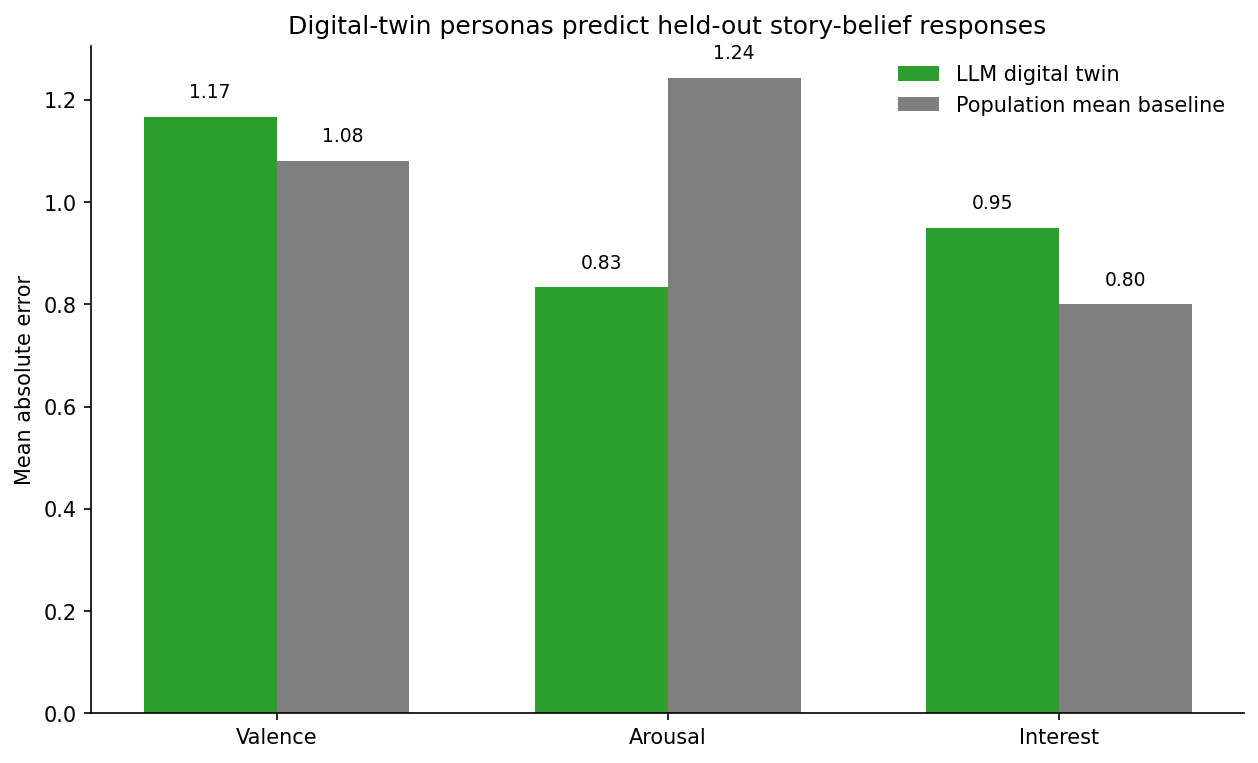
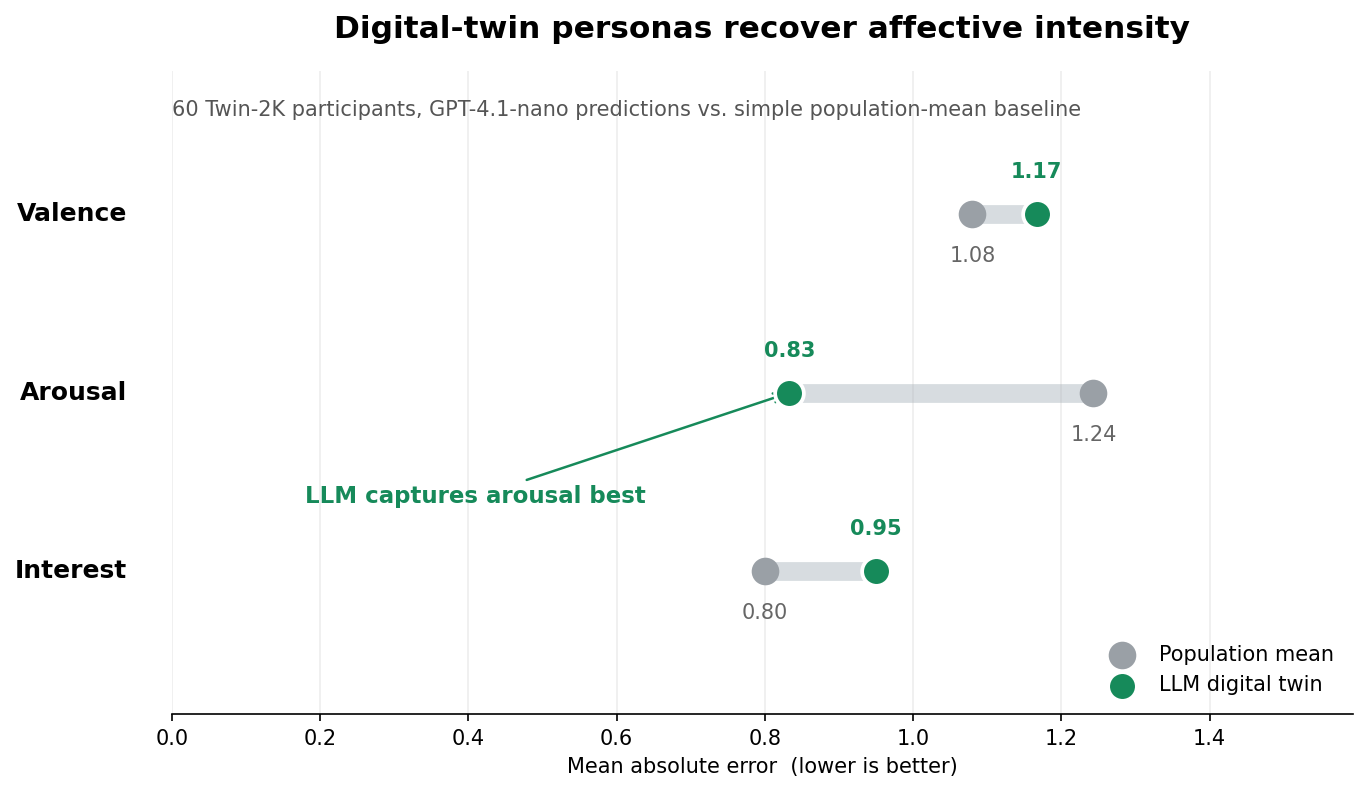
Polish digital twin validation figure

diff --git a/scripts/run_digital_twin_validation.py b/scripts/run_digital_twin_validation.py
@@ -145,6 +145,8 @@ def run_openai_predictions(df: pd.DataFrame, personas: dict[str, dict], limit: i
     pred_path = DATA_DIR / "digital_twin_story_predictions.csv"
     if pred_path.exists() and not refresh:
         existing = pd.read_csv(pred_path)
+        if "pid" in existing.columns:
+            existing["pid"] = existing["pid"].astype(str)
     else:
         existing = pd.DataFrame()
 
@@ -181,6 +183,7 @@ def run_openai_predictions(df: pd.DataFrame, personas: dict[str, dict], limit: i
         print(f"predicted pid={row['pid']}")
 
     combined = pd.concat([existing, pd.DataFrame(new_rows)], ignore_index=True)
+    combined["pid"] = combined["pid"].astype(str)
     combined = combined.drop_duplicates("pid", keep="first").head(limit)
     combined.to_csv(pred_path, index=False)
     return combined
@@ -225,24 +228,89 @@ def make_validation_chart(merged: pd.DataFrame) -> pd.DataFrame:
     metrics_df = pd.DataFrame(metrics)
     metrics_df.to_csv(DATA_DIR / "digital_twin_validation_metrics.csv", index=False)
 
-    fig, ax = plt.subplots(figsize=(8.5, 5.2))
     tasks = [s[0] for s in specs]
-    x = np.arange(len(tasks))
-    width = 0.34
     twin = metrics_df[metrics_df["model"] == "LLM digital twin"]["mae"].to_numpy()
     pop = metrics_df[metrics_df["model"] == "Population mean"]["mae"].to_numpy()
-    ax.bar(x - width / 2, twin, width, label="LLM digital twin", color="#2ca02c")
-    ax.bar(x + width / 2, pop, width, label="Population mean baseline", color="#7f7f7f")
-    ax.set_xticks(x)
-    ax.set_xticklabels(tasks)
-    ax.set_ylabel("Mean absolute error")
-    ax.set_title("Digital-twin personas predict held-out story-belief responses")
-    ax.legend(frameon=False)
+
+    fig, ax = plt.subplots(figsize=(9.2, 5.4))
+    y = np.arange(len(tasks))[::-1]
+    twin_color = "#168a5a"
+    baseline_color = "#9aa0a6"
+    line_color = "#d7dce0"
+
+    for yi, llm_value, baseline_value in zip(y, twin, pop):
+        ax.plot(
+            [llm_value, baseline_value],
+            [yi, yi],
+            color=line_color,
+            linewidth=9,
+            solid_capstyle="round",
+            zorder=1,
+        )
+    ax.scatter(pop, y, s=150, color=baseline_color, label="Population mean", zorder=3)
+    ax.scatter(
+        twin,
+        y,
+        s=190,
+        color=twin_color,
+        edgecolor="white",
+        linewidth=1.8,
+        label="LLM digital twin",
+        zorder=4,
+    )
+
+    for yi, task, llm_value, baseline_value in zip(y, tasks, twin, pop):
+        ax.text(-0.06, yi, task, ha="right", va="center", fontsize=12, fontweight="bold")
+        ax.text(
+            llm_value,
+            yi + 0.18,
+            f"{llm_value:.2f}",
+            ha="center",
+            va="bottom",
+            fontsize=10,
+            color=twin_color,
+            fontweight="bold",
+        )
+        ax.text(
+            baseline_value,
+            yi - 0.18,
+            f"{baseline_value:.2f}",
+            ha="center",
+            va="top",
+            fontsize=10,
+            color="#666",
+        )
+
+    ax.annotate(
+        "LLM captures arousal best",
+        xy=(twin[1], y[1]),
+        xytext=(0.18, y[1] - 0.62),
+        arrowprops=dict(arrowstyle="->", color=twin_color, lw=1.2),
+        color=twin_color,
+        fontsize=11,
+        fontweight="bold",
+    )
+    ax.set_xlim(0, max(pop.max(), twin.max()) + 0.35)
+    ax.set_ylim(-0.8, len(tasks) - 0.2)
+    ax.set_yticks([])
+    ax.set_xlabel("Mean absolute error  (lower is better)")
+    ax.set_title(
+        "Digital-twin personas recover affective intensity",
+        fontsize=15,
+        fontweight="bold",
+        pad=16,
+    )
+    ax.text(
+        0,
+        len(tasks) - 0.45,
+        "60 Twin-2K participants, GPT-4.1-nano predictions vs. simple population-mean baseline",
+        fontsize=10,
+        color="#555",
+    )
+    ax.legend(frameon=False, loc="lower right")
+    ax.grid(axis="x", alpha=0.22)
     ax.spines[["top", "right"]].set_visible(False)
-    for i, value in enumerate(twin):
-        ax.text(i - width / 2, value + 0.03, f"{value:.2f}", ha="center", va="bottom", fontsize=9)
-    for i, value in enumerate(pop):
-        ax.text(i + width / 2, value + 0.03, f"{value:.2f}", ha="center", va="bottom", fontsize=9)
+    ax.spines["left"].set_visible(False)
     fig.tight_layout()
     fig.savefig(OUTPUT_DIR / "digital_twin_validation.png", dpi=150, bbox_inches="tight")
     plt.close(fig)
